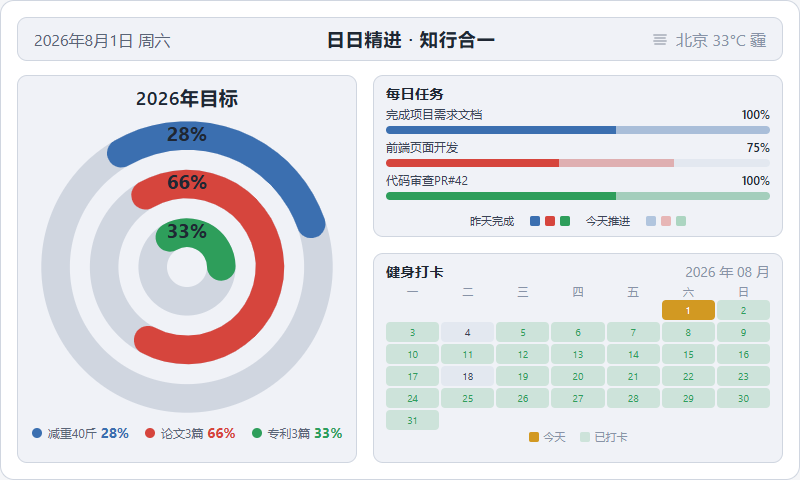
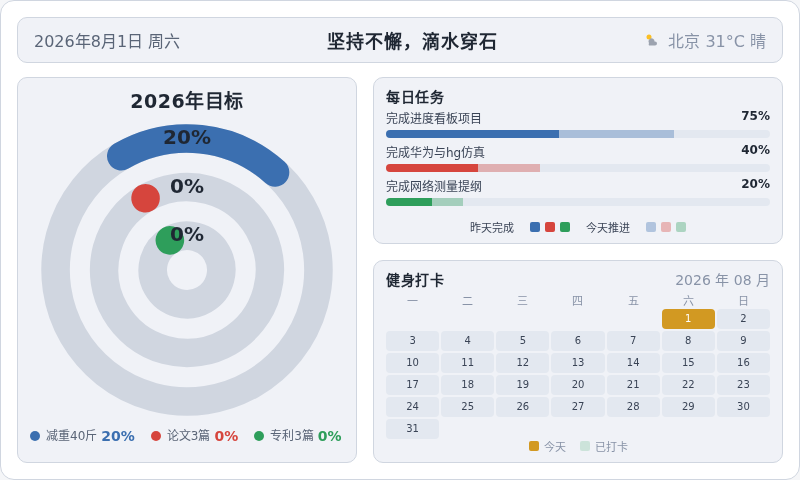
feat: 支持从 slogan.csv 读取口号
- 新增 get_slogan_info() 读取 data/slogan.csv，缺失/为空时回退默认口号
- build_html 增加 slogan 参数，替换硬编码 '日日精进 · 知行合一'
- 修复 data/tasks.csv 日期格式 (2026.0/8/1 -> 2026-08-01)
- 更新 README: 800x480 分辨率、open-meteo 天气 API、run_daily.py --display 参数
- 新增 data/slogan.csv: 坚持不懈，滴水穿石

diff --git a/output/dashboard.html b/output/dashboard.html
@@ -70,7 +70,7 @@
   /* gauge */
   .gauge-panel { align-items: center; }
   .gauge-wrap { margin: 4px 0 4px; }
-  .legend { width: 100%; display: flex; flex-direction: row; flex-wrap: wrap; justify-content: center; gap: 6px 16px; }
+  .legend { width: 100%; display: flex; flex-direction: row; flex-wrap: wrap; justify-content: flex-start; gap: 6px 16px; }
   .legend-row {
     display: flex;
     align-items: center;
@@ -154,10 +154,10 @@
   <div class="dash">
     <div class="topbar">
       <div class="tb-date" id="tbDate">2026年8月1日 周六</div>
-      <div class="tb-slogan">日日精进 · 知行合一</div>
+      <div class="tb-slogan">坚持不懈，滴水穿石</div>
       <div class="tb-weather">
         <svg width="16" height="16" viewBox="0 0 16 16" aria-hidden="true"><circle cx="5" cy="5" r="2.5" fill="#fbbf24"/><path d="M5 11 a3 3 0 1 1 5.5 -1.5 h0.5 a2 2 0 1 1 0 4 H5 a2.5 2.5 0 0 1 0 -2.5z" fill="#9ca3af"/></svg>
-        <span>北京 33°C 晴</span>
+        <span>北京 31°C 晴</span>
       </div>
     </div>
     <div class="content">
@@ -168,34 +168,34 @@
           <svg viewBox="0 0 210 210" width="300" height="300" role="img" aria-label="三环进度仪表盘">
             <title>2026年目标三环进度</title>
             <g transform="rotate(-120 105 105)">
-              <circle cx="105" cy="105" r="92" fill="none" stroke="#d0d6e0" stroke-width="20"/><circle cx="105" cy="105" r="92" fill="none" stroke="#3b6fb0" stroke-width="20" stroke-linecap="round" stroke-dasharray="161.85 578.05"/><circle cx="105" cy="105" r="58" fill="none" stroke="#d0d6e0" stroke-width="20"/><circle cx="105" cy="105" r="58" fill="none" stroke="#d6453d" stroke-width="20" stroke-linecap="round" stroke-dasharray="240.52 364.42"/><circle cx="105" cy="105" r="24" fill="none" stroke="#d0d6e0" stroke-width="20"/><circle cx="105" cy="105" r="24" fill="none" stroke="#2e9e5b" stroke-width="20" stroke-linecap="round" stroke-dasharray="49.76 150.80"/>
+              <circle cx="105" cy="105" r="92" fill="none" stroke="#d0d6e0" stroke-width="20"/><circle cx="105" cy="105" r="92" fill="none" stroke="#3b6fb0" stroke-width="20" stroke-linecap="round" stroke-dasharray="115.61 578.05"/><circle cx="105" cy="105" r="58" fill="none" stroke="#d0d6e0" stroke-width="20"/><circle cx="105" cy="105" r="58" fill="none" stroke="#d6453d" stroke-width="20" stroke-linecap="round" stroke-dasharray="0.00 364.42"/><circle cx="105" cy="105" r="24" fill="none" stroke="#d0d6e0" stroke-width="20"/><circle cx="105" cy="105" r="24" fill="none" stroke="#2e9e5b" stroke-width="20" stroke-linecap="round" stroke-dasharray="0.00 150.80"/>
             </g>
-            <text x="105" y="13" text-anchor="middle" dominant-baseline="middle" fill="#1f2733" font-size="14" font-weight="700">28%</text><text x="105" y="47" text-anchor="middle" dominant-baseline="middle" fill="#1f2733" font-size="14" font-weight="700">66%</text><text x="105" y="81" text-anchor="middle" dominant-baseline="middle" fill="#1f2733" font-size="14" font-weight="700">33%</text>
+            <text x="105" y="13" text-anchor="middle" dominant-baseline="middle" fill="#1f2733" font-size="14" font-weight="700">20%</text><text x="105" y="47" text-anchor="middle" dominant-baseline="middle" fill="#1f2733" font-size="14" font-weight="700">0%</text><text x="105" y="81" text-anchor="middle" dominant-baseline="middle" fill="#1f2733" font-size="14" font-weight="700">0%</text>
           </svg>
         </div>
-        <div class="legend"><div class="legend-row"><span class="dot" style="background:#3b6fb0"></span><span class="lg-name">减重40斤</span><span class="lg-pct" style="color:#3b6fb0">28%</span></div><div class="legend-row"><span class="dot" style="background:#d6453d"></span><span class="lg-name">论文3篇</span><span class="lg-pct" style="color:#d6453d">66%</span></div><div class="legend-row"><span class="dot" style="background:#2e9e5b"></span><span class="lg-name">专利3篇</span><span class="lg-pct" style="color:#2e9e5b">33%</span></div></div>
+        <div class="legend"><div class="legend-row"><span class="dot" style="background:#3b6fb0"></span><span class="lg-name">减重40斤</span><span class="lg-pct" style="color:#3b6fb0">20%</span></div><div class="legend-row"><span class="dot" style="background:#d6453d"></span><span class="lg-name">论文3篇</span><span class="lg-pct" style="color:#d6453d">0%</span></div><div class="legend-row"><span class="dot" style="background:#2e9e5b"></span><span class="lg-name">专利3篇</span><span class="lg-pct" style="color:#2e9e5b">0%</span></div></div>
       </div>
     </div>
     <div class="col-right">
       <div class="panel tasks-panel">
         <div class="panel-title" style="color:#1f2733">每日任务</div>
         <div class="task">
-          <div class="task-head"><span style="color:#3a4456">完成项目需求文档</span><span class="task-val" style="color:#1f2733">100%</span></div>
+          <div class="task-head"><span style="color:#3a4456">完成进度看板项目</span><span class="task-val" style="color:#1f2733">75%</span></div>
           <div class="bar">
-            <div class="seg" style="width:60%;background:#3b6fb0"></div>
-            <div class="seg" style="width:40%;background:rgba(59,111,176,0.35)"></div>
+            <div class="seg" style="width:45%;background:#3b6fb0"></div>
+            <div class="seg" style="width:30%;background:rgba(59,111,176,0.35)"></div>
           </div>
         </div><div class="task">
-          <div class="task-head"><span style="color:#3a4456">前端页面开发</span><span class="task-val" style="color:#1f2733">75%</span></div>
+          <div class="task-head"><span style="color:#3a4456">完成华为与hg仿真</span><span class="task-val" style="color:#1f2733">40%</span></div>
           <div class="bar">
-            <div class="seg" style="width:45%;background:#d6453d"></div>
-            <div class="seg" style="width:30%;background:rgba(214,69,61,0.35)"></div>
+            <div class="seg" style="width:24%;background:#d6453d"></div>
+            <div class="seg" style="width:16%;background:rgba(214,69,61,0.35)"></div>
           </div>
         </div><div class="task">
-          <div class="task-head"><span style="color:#3a4456">代码审查PR#42</span><span class="task-val" style="color:#1f2733">100%</span></div>
+          <div class="task-head"><span style="color:#3a4456">完成网络测量提纲</span><span class="task-val" style="color:#1f2733">20%</span></div>
           <div class="bar">
-            <div class="seg" style="width:60%;background:#2e9e5b"></div>
-            <div class="seg" style="width:40%;background:rgba(46,158,91,0.35)"></div>
+            <div class="seg" style="width:12%;background:#2e9e5b"></div>
+            <div class="seg" style="width:8%;background:rgba(46,158,91,0.35)"></div>
           </div>
         </div>
         <div class="task-legend">
@@ -211,7 +211,7 @@
           <span class="cal-date">2026 年 08 月</span>
         </div>
         <div class="cal-grid wk"><span>一</span><span>二</span><span>三</span><span>四</span><span>五</span><span>六</span><span>日</span></div>
-        <div class="cal-grid"><span class="cell empty"></span><span class="cell empty"></span><span class="cell empty"></span><span class="cell empty"></span><span class="cell empty"></span><span class="cell today" style="background:#d29922;color:#ffffff">1</span><span class="cell done" style="background:rgba(46,158,91,0.18);color:#2e9e5b">2</span><span class="cell done" style="background:rgba(46,158,91,0.18);color:#2e9e5b">3</span><span class="cell" style="background:#e3e8f0;color:#3a4456">4</span><span class="cell done" style="background:rgba(46,158,91,0.18);color:#2e9e5b">5</span><span class="cell done" style="background:rgba(46,158,91,0.18);color:#2e9e5b">6</span><span class="cell done" style="background:rgba(46,158,91,0.18);color:#2e9e5b">7</span><span class="cell done" style="background:rgba(46,158,91,0.18);color:#2e9e5b">8</span><span class="cell done" style="background:rgba(46,158,91,0.18);color:#2e9e5b">9</span><span class="cell done" style="background:rgba(46,158,91,0.18);color:#2e9e5b">10</span><span class="cell done" style="background:rgba(46,158,91,0.18);color:#2e9e5b">11</span><span class="cell done" style="background:rgba(46,158,91,0.18);color:#2e9e5b">12</span><span class="cell done" style="background:rgba(46,158,91,0.18);color:#2e9e5b">13</span><span class="cell done" style="background:rgba(46,158,91,0.18);color:#2e9e5b">14</span><span class="cell done" style="background:rgba(46,158,91,0.18);color:#2e9e5b">15</span><span class="cell done" style="background:rgba(46,158,91,0.18);color:#2e9e5b">16</span><span class="cell done" style="background:rgba(46,158,91,0.18);color:#2e9e5b">17</span><span class="cell" style="background:#e3e8f0;color:#3a4456">18</span><span class="cell done" style="background:rgba(46,158,91,0.18);color:#2e9e5b">19</span><span class="cell done" style="background:rgba(46,158,91,0.18);color:#2e9e5b">20</span><span class="cell done" style="background:rgba(46,158,91,0.18);color:#2e9e5b">21</span><span class="cell done" style="background:rgba(46,158,91,0.18);color:#2e9e5b">22</span><span class="cell done" style="background:rgba(46,158,91,0.18);color:#2e9e5b">23</span><span class="cell done" style="background:rgba(46,158,91,0.18);color:#2e9e5b">24</span><span class="cell done" style="background:rgba(46,158,91,0.18);color:#2e9e5b">25</span><span class="cell done" style="background:rgba(46,158,91,0.18);color:#2e9e5b">26</span><span class="cell done" style="background:rgba(46,158,91,0.18);color:#2e9e5b">27</span><span class="cell done" style="background:rgba(46,158,91,0.18);color:#2e9e5b">28</span><span class="cell done" style="background:rgba(46,158,91,0.18);color:#2e9e5b">29</span><span class="cell done" style="background:rgba(46,158,91,0.18);color:#2e9e5b">30</span><span class="cell done" style="background:rgba(46,158,91,0.18);color:#2e9e5b">31</span></div>
+        <div class="cal-grid"><span class="cell empty"></span><span class="cell empty"></span><span class="cell empty"></span><span class="cell empty"></span><span class="cell empty"></span><span class="cell today" style="background:#d29922;color:#ffffff">1</span><span class="cell" style="background:#e3e8f0;color:#3a4456">2</span><span class="cell" style="background:#e3e8f0;color:#3a4456">3</span><span class="cell" style="background:#e3e8f0;color:#3a4456">4</span><span class="cell" style="background:#e3e8f0;color:#3a4456">5</span><span class="cell" style="background:#e3e8f0;color:#3a4456">6</span><span class="cell" style="background:#e3e8f0;color:#3a4456">7</span><span class="cell" style="background:#e3e8f0;color:#3a4456">8</span><span class="cell" style="background:#e3e8f0;color:#3a4456">9</span><span class="cell" style="background:#e3e8f0;color:#3a4456">10</span><span class="cell" style="background:#e3e8f0;color:#3a4456">11</span><span class="cell" style="background:#e3e8f0;color:#3a4456">12</span><span class="cell" style="background:#e3e8f0;color:#3a4456">13</span><span class="cell" style="background:#e3e8f0;color:#3a4456">14</span><span class="cell" style="background:#e3e8f0;color:#3a4456">15</span><span class="cell" style="background:#e3e8f0;color:#3a4456">16</span><span class="cell" style="background:#e3e8f0;color:#3a4456">17</span><span class="cell" style="background:#e3e8f0;color:#3a4456">18</span><span class="cell" style="background:#e3e8f0;color:#3a4456">19</span><span class="cell" style="background:#e3e8f0;color:#3a4456">20</span><span class="cell" style="background:#e3e8f0;color:#3a4456">21</span><span class="cell" style="background:#e3e8f0;color:#3a4456">22</span><span class="cell" style="background:#e3e8f0;color:#3a4456">23</span><span class="cell" style="background:#e3e8f0;color:#3a4456">24</span><span class="cell" style="background:#e3e8f0;color:#3a4456">25</span><span class="cell" style="background:#e3e8f0;color:#3a4456">26</span><span class="cell" style="background:#e3e8f0;color:#3a4456">27</span><span class="cell" style="background:#e3e8f0;color:#3a4456">28</span><span class="cell" style="background:#e3e8f0;color:#3a4456">29</span><span class="cell" style="background:#e3e8f0;color:#3a4456">30</span><span class="cell" style="background:#e3e8f0;color:#3a4456">31</span></div>
         <div class="cal-legend">
           <span style="color:#8893a7"><i class="sw" style="background:#d29922"></i>今天</span>
           <span style="color:#8893a7"><i class="sw" style="background:rgba(46,158,91,0.18)"></i>已打卡</span>

diff --git a/generate_dashboard.py b/generate_dashboard.py
@@ -360,6 +360,17 @@ def get_tasks_info(target_date):
     return {"tasks": tasks}
 
 
+def get_slogan_info():
+    """读取 data/slogan.csv 中的口号，文件缺失或内容为空时回退默认口号。"""
+    default_slogan = "日日精进 · 知行合一"
+    rows = read_csv_dicts(os.path.join(DATA_DIR, "slogan.csv"))
+    for r in rows:
+        text = (r.get("slogan") or "").strip()
+        if text:
+            return text
+    return default_slogan
+
+
 # ----------------------------------------------------------------------------
 # 三环同心仪表盘（单个 SVG，对齐模板结构）
 # ----------------------------------------------------------------------------
@@ -493,8 +504,10 @@ def build_calendar(fitness_rows, target_date, theme):
 # HTML 拼装
 # ----------------------------------------------------------------------------
 def build_html(weight_info, goals, fitness_info, tasks_info, fitness_rows,
-               target_date, weather_info, style=DEFAULT_STYLE):
+               target_date, weather_info, style=DEFAULT_STYLE, slogan=None):
     theme = THEMES.get(style, THEMES[DEFAULT_STYLE])
+    if slogan is None:
+        slogan = get_slogan_info()
     d = datetime.strptime(target_date, "%Y-%m-%d")
     weekdays = ["周日", "周一", "周二", "周三", "周四", "周五", "周六"]
     date_str = f"{d.year}年{d.month}月{d.day}日 {weekdays[d.weekday() + 1]}"
@@ -566,7 +579,7 @@ def build_html(weight_info, goals, fitness_info, tasks_info, fitness_rows,
   /* gauge */
   .gauge-panel {{ align-items: center; }}
   .gauge-wrap {{ margin: 4px 0 4px; }}
-  .legend {{ width: 100%; display: flex; flex-direction: row; flex-wrap: wrap; justify-content: center; gap: 6px 16px; }}
+  .legend {{ width: 100%; display: flex; flex-direction: row; flex-wrap: wrap; justify-content: flex-start; gap: 6px 16px; }}
   .legend-row {{
     display: flex;
     align-items: center;
@@ -663,7 +676,7 @@ def build_html(weight_info, goals, fitness_info, tasks_info, fitness_rows,
   <div class="dash">
     <div class="topbar">
       <div class="tb-date" id="tbDate">{date_str}</div>
-      <div class="tb-slogan">日日精进 · 知行合一</div>
+      <div class="tb-slogan">{slogan}</div>
       <div class="tb-weather">
         {weather['icon']}
         <span>{weather['text']}</span>
@@ -711,8 +724,9 @@ def generate(target_date=None, open_browser=False, style=DEFAULT_STYLE, out_file
     tasks_info = get_tasks_info(target_date)
     fitness_rows = read_csv_dicts(os.path.join(DATA_DIR, "fitness.csv"))
     weather_info = fetch_weather("Beijing")
+    slogan = get_slogan_info()
     html = build_html(weight_info, goals, fitness_info, tasks_info, fitness_rows,
-                      target_date, weather_info, style)
+                      target_date, weather_info, style, slogan)
     target_path = out_file or OUT_HTML
     with open(target_path, "w", encoding="utf-8") as f:
         f.write(html)

diff --git a/README.md b/README.md
@@ -1,6 +1,6 @@
 # reTerminal E-Ink Dashboard
 
-一个为 [Seeed Studio reTerminal](https://wiki.seeedstudio.com/reTerminal/) + E1002 5" 墨水屏设计的个人仪表盘生成器。读取 CSV 数据源，生成 800x400 的 HTML 看板，可截图后推送到墨水屏显示。
+一个为 [Seeed Studio reTerminal](https://wiki.seeedstudio.com/reTerminal/) + E1002 5" 墨水屏设计的个人仪表盘生成器。读取 CSV 数据源，生成 800x480 的 HTML 看板，可截图后推送到墨水屏显示。
 
 ## 功能概览
 
@@ -89,11 +89,14 @@ python display_on_eink.py --clear
 ### 5. 一键流水线
 
 ```bash
-# 完整流程：生成 HTML → 截图 PNG → 推送墨水屏
+# 默认流程：生成 HTML → 截图 PNG（不推送墨水屏）
 python run_daily.py
 
-# 只生成 HTML + PNG，不推送墨水屏
-python run_daily.py --no-display
+# 指定主题风格（默认 light）
+python run_daily.py --style cyberpunk
+
+# 完整流程：生成 HTML → 截图 PNG → 推送墨水屏（需在 reTerminal 上运行）
+python run_daily.py --display
 
 # 只生成 HTML，不截图不显示
 python run_daily.py --no-screenshot
@@ -128,7 +131,7 @@ python generate_dashboard.py --all
 | 参数 | 说明 | 默认值 |
 |------|------|--------|
 | `--date YYYY-MM-DD` | 目标日期 | 今天 |
-| `--style <名称>` | 主题风格 | `default` |
+| `--style <名称>` | 主题风格 | `light` |
 | `--all` | 循环生成所有主题到独立文件 | 关闭 |
 | `--open` | 生成后打开浏览器预览 | 关闭 |
 
@@ -154,8 +157,9 @@ python generate_dashboard.py --all
 | 参数 | 说明 | 默认值 |
 |------|------|--------|
 | `--date YYYY-MM-DD` | 目标日期 | 今天 |
+| `--style <名称>` | 主题风格（9 套可选） | `light` |
 | `--no-screenshot` | 跳过 PNG 截图步骤 | 关闭 |
-| `--no-display` | 跳过墨水屏显示步骤 | 关闭 |
+| `--display` | 推送到墨水屏（需 reTerminal 设备） | 关闭 |
 
 ## 数据源格式
 
@@ -259,7 +263,7 @@ python -m http.server 8080
 ## 技术细节
 
 - **HTML 生成**：Python f-string 拼接，CSS 变量化主题系统（`THEMES` 字典）
-- **天气获取**：[wttr.in](https://wttr.in) 免费 API（`?format=j1`），英文描述 → 中文映射 + SVG 图标
+- **天气获取**：[open-meteo.com](https://open-meteo.com) 免费 API（`/v1/forecast?current=temperature_2m,weather_code`），WMO 天气码 → 中文描述 + SVG 图标，北京固定经纬度（39.9042, 116.4074），8 秒超时，失败时静默降级（不阻塞生成）
 - **三环 SVG**：`viewBox 0 0 210 210`，`r=92/58/24`，`stroke-width=20`，`rotate(-120 105 105)`
 - **任务双段条**：每条任务一个 `.bar` 内含两段 `.seg`（昨天实色 + 今天半透明），合计宽度 = 任务总进度
 - **月历**：周一起算，`.cell` 高 14px / 字号 10px，今天黄色高亮，已打卡绿色
